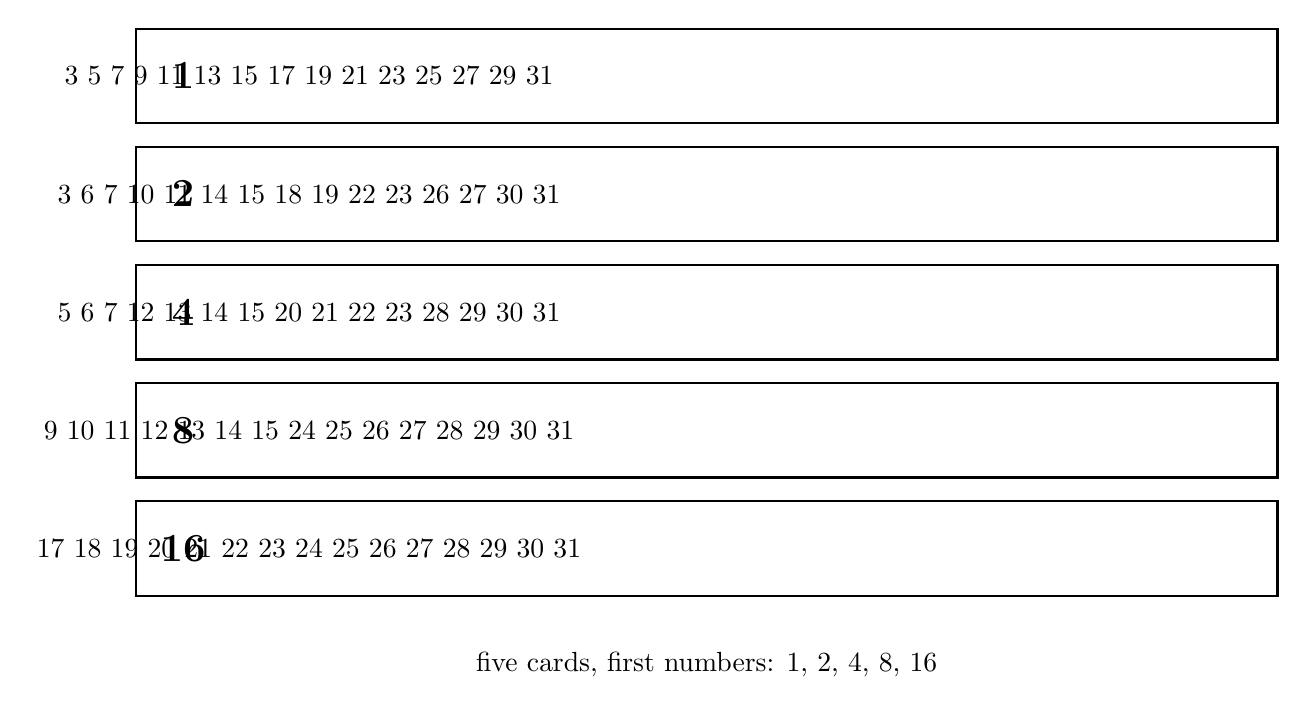
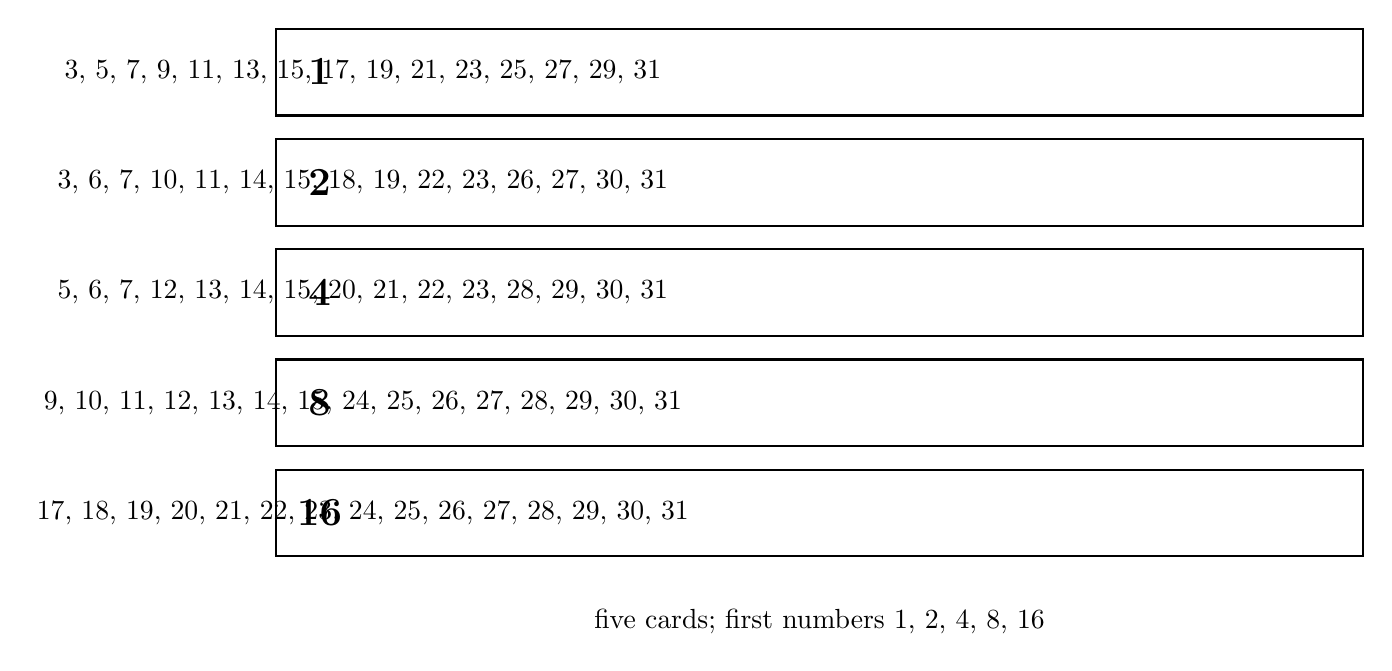
feat(articles): No22 重写——修复逻辑断裂、补推导过程、重画 4 图
- 修复最大逻辑断裂：破题'五个问题'与玩法'指卡片'脱节 →
  点明'五个问题 = 你想的数在第 i 张卡片上吗'
- 补'何以所以然'：新增二进制表（图2）展示卡片从二进制
  按位归类生成的过程；21 的逐张演示
- 删除突兀的'80÷31'平均引入
- 图1 数字加逗号分隔（原 11 13 挤成 11113）；图2 二进制表
  （绿色标奇数）；图3 五位方块分解图重做

diff --git a/No22_猜数魔术.md b/No22_猜数魔术.md
@@ -7,64 +7,80 @@
 
 先来玩一个魔术。
 
-我在心里想一个 1 到 31 之间的整数。你只需要问我五个"是不是"的问题，我如实回答，你就能猜出我想的是什么数。
+我心里想一个 1 到 31 之间的整数，不告诉你。你只需要问我五个问题，每个问题我只会回答"是"或"不是"，问完五个，你就能说出我想的数。
 
-五个问题，从 31 种可能里锁定唯一答案——这可能吗？
+这五个问题不是随便问的——它们其实是同一句话的五次重复：
 
-答案是：可能。而且不需要任何技巧，只需要下面五张卡片。
+> **"你想的数，在下面第 $i$ 张卡片上吗？"**（$i = 1, 2, 3, 4, 5$）
+
+五张卡片见下。每个"是/否"回答完，你想的数就锁定了。
 
 ## 二、魔术的玩法
 
-五张卡片如下。每张卡片上写着 16 个数，第一个数分别是 $1, 2, 4, 8, 16$：
+五张卡片如下。每张写着 16 个数，第一个数分别是 $1, 2, 4, 8, 16$：
 
-![图 1：猜数魔术的五张卡片——每张 16 个数，第一个数分别是 1, 2, 4, 8, 16](generated_images/no22_g1_cards.png)
+![图 1：猜数魔术的五张卡片——每张 16 个数，数字用逗号分隔，第一个数分别是 1, 2, 4, 8, 16](generated_images/no22_g1_cards.png)
 
 规则只有一条：
 
-> 观众心里想一个 1-31 的数，**指出这个数出现在哪几张卡片上**。你把观众指出的卡片的**第一个数加起来**——和就是观众心里想的数。
+> 观众心里想一个 1-31 的数，**指出这个数出现在哪几张卡片上**（这就是那五个"是/否"问题）。你把观众指出的卡片的**第一个数加起来**——和就是观众心里想的数。
 
-比如观众想的数是 21。21 出现在卡片 1、卡片 3、卡片 5 上（卡片 2、4 上没有）。把这三张卡片的第一个数加起来：
+完整演示一遍。假设观众想的数是 21。他翻看五张卡片：
+
+- 卡片 1（首数 1）：**有** 21 → 记下 1
+- 卡片 2（首数 2）：没有
+- 卡片 3（首数 4）：**有** 21 → 记下 4
+- 卡片 4（首数 8）：没有
+- 卡片 5（首数 16）：**有** 21 → 记下 16
+
+把记下的首数加起来：
 
 $$1 + 4 + 16 = 21.$$
 
 分毫不差。
 
-这就是全部魔术。你可以现在就找个人试——或者先猜猜，为什么它不会失手。
+这就是全部魔术。你可以现在就找个人试——或者先往下看，猜猜为什么它不会失手。
 
-## 三、原理：二进制的位置编码
+## 三、为什么有效：卡片是这样造出来的
 
-**分析**：五张卡片，每张 16 个数——总量 $5 \times 16 = 80$ 个"位置"，而 1 到 31 一共 31 个数。平均每个数出现在 $80/31 \approx 2.6$ 张卡片上。这个平均数不是巧合：**每个数被"分配"到某些卡片上，分配方式就是它的二进制表示**。
+**分析**：卡片不是乱写的。想知道卡片怎么来的，先把 1 到 16 写成二进制（5 位，前面补 0）：
 
-把 1 到 31 写成二进制（5 位，因为 $2^5 = 32 > 31$）：
+![图 2：1 到 16 的二进制——绿色的数（奇数）末位为 1，它们恰好构成卡片 1 的全部内容](generated_images/no22_g2_binarytable.png)
 
-$$21 = 10101_2 = 16 + 4 + 1.$$
+看这张表的**最右边一位**（末位）：它是 1 的数恰好是 $1, 3, 5, 7, 9, 11, 13, 15$——全是奇数（绿色）。把它们写在一张卡片上，第一个数写 1：
 
-**卡片 $i$ 的构造规则**：卡片 $i$ 上写的是**所有二进制第 $i$ 位为 1 的数**（第 1 位是最低位）。21 的二进制第 1、3、5 位是 1，所以 21 在卡片 1、3、5 上；第 2、4 位是 0，不在卡片 2、4 上。
+$$1, 3, 5, 7, 9, 11, 13, 15, 17, 19, \dots, 31.$$
 
-![图 2：21 = 16+4+1——二进制第 1、3、5 位为 1（绿色），所以 21 出现在卡片 1、3、5，首数之和 1+4+16=21](generated_images/no22_g2_decompose.png)
+**这就是卡片 1。** 它由一条规则生成：
 
-**为什么首数之和恰好是原数**：卡片 $i$ 的第一个数是 $2^{i-1}$（$1, 2, 4, 8, 16$）。观众指出卡片 $i$ ⟺ 二进制第 $i$ 位为 1 ⟺ 这个数含 $2^{i-1}$。所以首数之和
+> **卡片 $i$ 上写的是：所有二进制第 $i$ 位为 1 的数**（第 1 位 = 末位）。
 
-$$= \sum_{\text{观众指的卡片 } i} 2^{i-1} = \text{这个数的二进制展开} = \text{这个数本身}.$$
+卡片 2 由"倒数第二位为 1"的数生成：$2, 3, 6, 7, 10, 11, \dots$；卡片 3 由"倒数第三位为 1"的数生成：$4, 5, 6, 7, 12, 13, \dots$；依次类推。每张卡片都恰好有 16 个数（32 个数的一半在每一位上为 1），而每张卡片的第一个数——$1, 2, 4, 8, 16$——正是这一位所代表的数值。
 
-**证明**：设观众想的数是 $n$（$1 \le n \le 31$）。它的二进制展开是 $n = \sum_{i=1}^{5} b_i 2^{i-1}$（$b_i \in \{0,1\}$）。由卡片构造，$n$ 恰好在满足 $b_i = 1$ 的卡片 $i$ 上。观众指出的卡片首数之和 $= \sum_{b_i=1} 2^{i-1} = n$。∎
+**证明**：设观众想的数是 $n$，二进制展开 $n = \sum_{i=1}^{5} b_i \cdot 2^{i-1}$（$b_i \in \{0,1\}$）。$n$ 在第 $i$ 位为 1（$b_i=1$）⟺ $n$ 在卡片 $i$ 上。观众指出卡片 $i$ ⟺ $b_i = 1$。首数之和
 
-（读者不妨拿 1 到 31 随便挑几个数检验：卡片归属是否恰好对应二进制的 1。）
+$$= \sum_{\text{被指出的卡片 } i} 2^{i-1} = \sum_{b_i=1} 2^{i-1} = n.$$
 
-**复盘**：魔术的全部秘密是**二进制的位置编码**——五张卡片就是五个二进制位，观众"指出卡片"这个动作，本质上是把 $n$ 的二进制逐位报给了你。你没在猜数，你在**读码**。
+∎
 
-## 四、信息的角度：为什么恰好五个问题
+（读者不妨挑几个数检验：卡片归属是否恰好对应二进制的 1。）
 
-**分析**：五个"是/否"问题为什么刚好够区分 31 个数？答案是一个乘法和一个除法：
+**复盘**：魔术的全部秘密是**二进制的位置编码**——五张卡片就是五个二进制位，观众"指出卡片"这个动作，本质上是把 $n$ 的二进制逐位报给了你。你没在猜数，你在**读码**。以 21 为例：
+
+![图 3：21 的二进制是 10101——第 1、3、5 位为 1（绿色），对应卡片 1、3、5，首数之和 1+4+16=21](generated_images/no22_g3_decompose.png)
+
+## 四、为什么恰好五张：信息的角度
+
+**分析**：五个"是/否"问题为什么刚好够区分 31 个数？从可能性数起：
 
 - 每个"是/否"问题把可能性**对半分**：第一个问题之后剩 $\le 16$ 种，第二个之后 $\le 8$ 种，依次 $16 \to 8 \to 4 \to 2 \to 1$——五个问题后只剩一种可能
-- 反过来数：$k$ 个"是/否"问题最多区分 $2^k$ 种情况，$2^5 = 32 \ge 31$，所以 5 个足够；$2^4 = 16 < 31$，所以 4 个不够
+- 反过来数：$k$ 个"是/否"问题最多区分 $2^k$ 种情况。$2^5 = 32 \ge 31$，5 个够；$2^4 = 16 < 31$，4 个不够
 
-![图 3：二分树——每个"是/否"问题把范围对半分，5 层正好把 32 个数分到单个](generated_images/no22_g3_binarytree.png)
+![图 4：二分树——每个"是/否"问题把范围对半分，5 层正好把 32 个数分到单个](generated_images/no22_g3_binarytree.png)
 
 **这就是二分查找**，也是"信息"这个词的数学定义：**一个"是/否"问题的答案就是 1 bit 信息，$k$ 个问题携带 $k$ bit，最多区分 $2^k$ 种可能**。反过来，要区分 $N$ 种可能，至少需要 $\lceil \log_2 N \rceil$ 个"是/否"问题——$1$ 到 $31$ 需要 $\lceil \log_2 31 \rceil = 5$ 个，不多不少。
 
-**复盘**：魔术的"五个问题"不是凑巧——它是 $2^5 = 32$ 的直接推论。你问的不是五个问题，是**五个 bit**。这也是计算机科学的第一课：所有信息，最终都是"是/否"。
+**复盘**：魔术的"五张卡片"不是凑巧——它是 $2^5 = 32$ 的直接推论。你问的不是五个问题，是**五个 bit**。这也是计算机科学的第一课：所有信息，最终都是"是/否"。
 
 ## 五、与奇偶性的联系：魔术的第一张卡片
 
@@ -72,7 +88,7 @@ $$= \sum_{\text{观众指的卡片 } i} 2^{i-1} = \text{这个数的二进制展
 
 $$1, 3, 5, 7, 9, \dots, 31$$
 
-**全是奇数**。这不是偶然——二进制的最低位是 1 ⟺ 数是奇数。卡片 1 问的正是"你的数是奇数吗"，而"最低位"正是我们在 No19 奇偶性里讲的"除以 2 的余数"。
+**全是奇数**。这不是偶然——二进制的最低位是 1 ⟺ 数是奇数。卡片 1 问的正是"你的数是奇数吗"，而"除以 2 看余数"正是我们在 No19 奇偶性里讲的方法。
 
 奇偶性只是二进制的**最末一位**。把 No19 的"奇偶分类"推广到全部五个位，就得到了这五张卡片——**魔术是奇偶性的完整版**。
 
@@ -80,19 +96,19 @@ $$1, 3, 5, 7, 9, \dots, 31$$
 
 这个魔术可以无限制地放大：
 
-- 想猜 $1$ 到 $63$ 的数？六张卡片（$2^6 = 64$）。
-- 想猜 $1$ 到 $1023$？十张卡片。
-- 想猜任何一个有限范围内的数？$\lceil \log_2 N \rceil$ 张卡片。
+- 想猜 $1$ 到 $63$ 的数？六张卡片（$2^6 = 64$）
+- 想猜 $1$ 到 $1023$？十张卡片
+- 想猜任何一个有限范围内的数？$\lceil \log_2 N \rceil$ 张卡片
 
 **识别信号**：**"猜数 / 二分 / 是或否问题 / 编码" → 二进制，卡片首数 = 位权**。
 
-更深一层：魔术揭示的其实是**数与信息的关系**——一个 $n$ 位数携带的信息量，就是它需要多少个"是/否"来描述。二进制把"数"翻译成"是/否序列"，而卡片魔术把翻译过程变成了表演。
+更深一层：魔术揭示的是**数与信息的关系**——一个数需要多少个"是/否"来描述，就是它携带的信息量。二进制把"数"翻译成"是/否序列"，而卡片魔术把翻译过程变成了表演。
 
 ## 七、教学研究后记
 
 这个魔术是教二进制的**最佳入口**——比"计算机用二进制"的口号有说服力得多。教学顺序建议：先表演魔术（学生猜不透）→ 再拆原理（二进制位置编码）→ 最后追问"为什么恰好五张"（信息量）。三个层次对应三种深度：**玩法、原理、信息论**。
 
-值得注意的教学细节：学生第一次看到五张卡片时，常以为"每张卡片第一个数是 1,2,4,8,16"是随便选的。**让 1, 2, 4, 8, 16 自己显形**——它们是 $2^0, 2^1, 2^2, 2^3, 2^4$，正是二进制的位权。学生自己发现这一串数时，"首数相加"就从魔术规则变成了显然的结论。
+值得注意的教学细节：学生第一次看到五张卡片时，常以为"每张卡片第一个数是 1, 2, 4, 8, 16"是随便选的。**让 1, 2, 4, 8, 16 自己显形**——它们是 $2^0, 2^1, 2^2, 2^3, 2^4$，正是二进制的位权。学生自己发现这一串数时，"首数相加"就从魔术规则变成了显然的结论。
 
 ## 八、数学史小记
 
@@ -104,9 +120,9 @@ $$1, 3, 5, 7, 9, \dots, 31$$
 
 **问题 1（★★☆☆☆）**：想猜 $1$ 到 $63$ 的数，需要几张卡片？每张卡片上写几个数？（提示：$2^6 = 64$，照搬构造规则。）
 
-**问题 2（★★★☆☆，变式）**：把魔术反过来——你心里想一个数，观众有**一次撒谎的机会**（五张卡片的问题中，有一张可以故意指错）。要保证仍能猜出原数，至少需要把范围缩小到多少？（提示：一次撒谎使答案不再唯一——用额外的问题来定位撒谎的位置。这是"纠错码"（error-correcting code）的种子：信息里混入噪声时如何还原。）
+**问题 2（★★★☆☆，变式）**：把魔术反过来——你心里想一个数，观众有**一次撒谎的机会**（五张卡片的问题中，有一张可以故意指错）。要保证仍能猜出原数，至少需要把范围缩小到多少？（提示：一次撒谎意味着答案不再唯一——你听到的"卡片指示"可能与真实指示在某一位上不同。对每个真实指示，有 6 种可能的"听到的指示"（不撒谎 + 5 个位置各撒一次谎），所以 32 种"听到的指示"只能装下 $\lfloor 32/6 \rfloor = 5$ 个不同真实值。这是"纠错码"（error-correcting code）的种子：信息里混入噪声时如何还原。）
 
-**问题 3（★★★★☆）**：$1000$ 瓶药水中有一瓶有毒，毒发时间正好 24 小时。你有 10 只小白鼠，每只可以喝任意瓶药水的混合液。如何用**一次实验**（24 小时）找出毒药瓶？（提示：$2^{10} = 1024 > 1000$——每只老鼠对应一个二进制位，老鼠喝"第 $i$ 位为 1"的那些瓶子的混合液，24 小时后看哪几只死了。这是猜数魔术的生死版。）
+**问题 3（★★★★☆）**：$1000$ 瓶药水中有一瓶有毒，毒发时间正好 24 小时。你有 10 只小白鼠，每只可以喝任意瓶药水的混合液。如何用**一次实验**（24 小时）找出毒药瓶？（提示：$2^{10} = 1024 > 1000$——每只老鼠对应一个二进制位，老鼠 $i$ 喝"瓶号第 $i$ 位为 1"的那些瓶子的混合液，24 小时后看哪几只死了。这是猜数魔术的生死版。）
 
 ---
 
